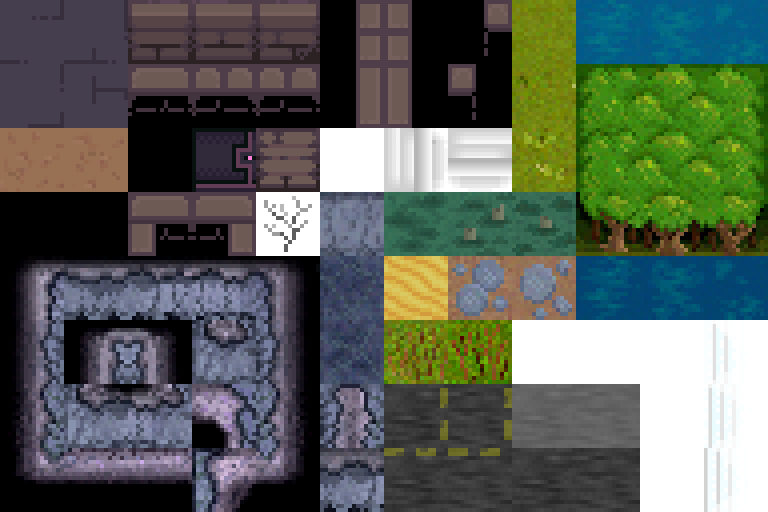
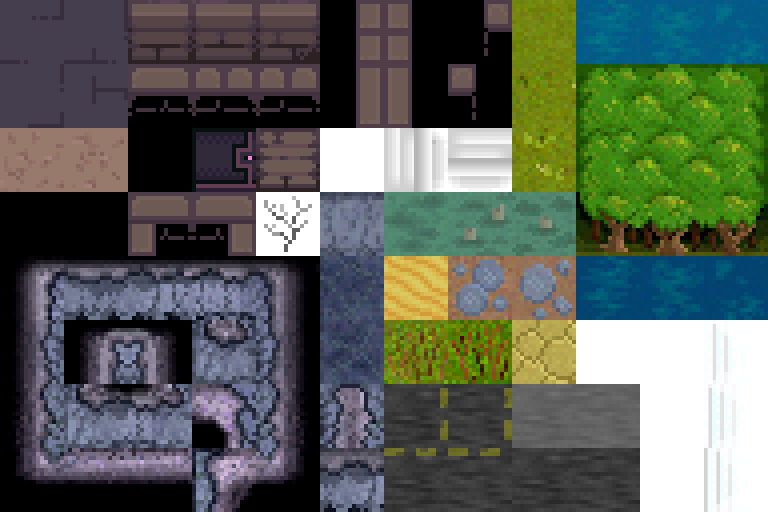
better road connections

Changed region(s): [[0.5, 0.375, 0.75, 0.5], [0.6562, 0.625, 0.75, 0.75], [0.0938, 0.25, 0.125, 0.2812]]

diff --git a/src/main/kotlin/world/gen/Metamap.kt b/src/main/kotlin/world/gen/Metamap.kt
@@ -25,8 +25,8 @@ object Metamap {
 
     var isWorking = false
 
-    val minLand = 0.4f
-    val maxLand = 0.7f
+    val minLand = 0.55f
+    val maxLand = 0.8f
     val coastRoughness = 0.15f
     val bigRiverDensity = 0.4f
     val smallRiverDensity = 0.1f
@@ -46,15 +46,16 @@ object Metamap {
     val bigCityFraction = 0.2f
     val ruinFalloff = 14f
     val ruinsMax = 5f
-    val habitatArcticY = 70
-    val habitatTropicY = 150
     val trailDensity = 0.1f
+    val minStepsBetweenSideRoads = 4
+    val sideRoadChance = 0.2f
 
     val outOfBoundsMeta = ChunkMeta(biome = Ocean)
 
     private var scratches = Array(chunkRadius * 2) { Array(chunkRadius * 2) { ChunkScratch() } }
     private var riverCells = ArrayList<XY>()
     private var cityCells = ArrayList<XY>()
+    private var roadCells = ArrayList<XY>()
     val metas = ArrayList<ArrayList<ChunkMeta>>()
 
     fun metaAt(x: Int, y: Int) = if (boundsCheck(x,y)) metas[x][y] else outOfBoundsMeta
@@ -103,6 +104,7 @@ object Metamap {
         scratches = Array(chunkRadius * 2) { Array(chunkRadius * 2) { ChunkScratch() } }
         riverCells.clear()
         cityCells.clear()
+        roadCells.clear()
 
         fun metaAt(x: Int, y: Int): ChunkScratch? = if (boundsCheck(x,y)) scratches[x][y] else null
 
@@ -440,7 +442,7 @@ object Metamap {
             }
             repeat (citiesInland) { placeCity(inlandSites) }
 
-            // Build ruins on city sites, and run roads away
+            // Build ruins on city sites
             val numBigCities = citiesTotal * bigCityFraction
             var n = 0
             for (city in cityCells) {
@@ -453,9 +455,6 @@ object Metamap {
                             scratches[dx][dy].height = 1
                         }
                     }
-                }
-                CARDINALS.forEach { dir ->
-                    runRoad(city, dir)
                 }
             }
             growBiome(Ruins, 1, 0.4f, false, listOf(Ocean))
@@ -640,6 +639,13 @@ object Metamap {
             forEachMeta { x,y,cell ->
                 if (Dice.chance(trailDensity)) {
                     runTrail(XY(x,y), Dice.float(0.05f, 0.2f))
+                }
+            }
+
+            // Run roads
+            cityCells.forEach { city ->
+                cityCells.forEach { ocity ->
+                    if (ocity != city) connectCityToRoads(city, ocity)
                 }
             }
 
@@ -837,39 +843,80 @@ object Metamap {
         }
     }
 
-    private fun runRoad(from: XY, toDir: XY) {
+    private fun connectCityToRoads(city: XY, targetCity: XY) {
+        val cursor = XY(city.x, city.y)
+        val targets = ArrayList<XY>().apply {
+            addAll(cityCells)
+            addAll(roadCells)
+            remove(city)
+        }
+        val newRoads = ArrayList<XY>()
         var done = false
-        var cursor = from
-        var length = 0
-        var dir = toDir
+        var stepsSinceSideRoad = 0
         while (!done) {
-            val next = XY(cursor.x + dir.x, cursor.y + dir.y)
-            if (!boundsCheck(next.x, next.y)) done = true
-            else if (!isLandAt(next)) done = true
-            else if (scratches[next.x][next.y].hasCity) done = true
-            else if (scratches[cursor.x][cursor.y].roadExits.size > 2 && Dice.chance(0.7f)) done = true
-            else if (length > 15 && Dice.chance(length * 0.006f)) done = true
-            else {
-                connectRoadExits(cursor, next)
-                cursor = next
-                length++
-            }
-            if (Dice.chance(0.07f)) {
-                dir = XY(toDir.y, toDir.x)
-                if (Dice.flip()) {
-                    dir.x = -dir.x
-                    dir.y = -dir.y
+            // Find target closest to cursor which is closer to targetCity than cursor
+            var nearestTarget = targetCity
+            val cursorToTargetCity = manhattanDistance(cursor, targetCity)
+            var nearestTargetDistance = cursorToTargetCity
+            targets.forEach { choice ->
+                val cursorToChoice = manhattanDistance(cursor, choice)
+                val choiceToTargetCity = manhattanDistance(choice, targetCity)
+                if (cursorToChoice < 0.5f) done = true
+                else if (choiceToTargetCity < cursorToTargetCity) {
+                    if (cursorToChoice < nearestTargetDistance) {
+                        nearestTargetDistance = cursorToChoice
+                        nearestTarget = choice
+                    }
                 }
             }
-            if (Dice.chance(0.015f)) {
-                runRoad(cursor, XY(toDir.y, toDir.x))
+            if (!done) {
+                // Pick a direction that moves closer to it
+                var moveDir = XY(0, 0)
+                CARDINALS.shuffled().from(cursor.x, cursor.y) { dx, dy, dir ->
+                    if (boundsCheck(dx, dy) && manhattanDistance(nearestTarget.x, nearestTarget.y, dx, dy) < nearestTargetDistance) {
+                        moveDir = dir
+                    }
+                }
+                if (moveDir == XY(0,0)) done = true
+                else {
+                    connectRoadExits(cursor, XY(cursor.x + moveDir.x, cursor.y + moveDir.y))
+                    if (cursor != city) newRoads.add(XY(cursor.x, cursor.y))
+                    stepsSinceSideRoad++
+                    if (stepsSinceSideRoad >= minStepsBetweenSideRoads && Dice.chance(sideRoadChance)) {
+                        var sideRoadDir = moveDir.rotated()
+                        if (Dice.flip()) sideRoadDir = sideRoadDir.flipped()
+                        runSideRoad(XY(cursor.x, cursor.y), sideRoadDir)
+                        stepsSinceSideRoad = 0
+                    }
+                    cursor.x += moveDir.x
+                    cursor.y += moveDir.y
+                }
             }
+        }
+        roadCells.addAll(newRoads)
+    }
+
+    private fun runSideRoad(start: XY, dir: XY) {
+        var done = false
+        val cursor = XY(start.x,start.y)
+        while (!done) {
+            if (Dice.chance(0.05f)) done = true
+            val next = XY(cursor.x + dir.x, cursor.y + dir.y)
+            if (scratches[next.x][next.y].roadExits.isNotEmpty()) done = true
+            if (scratches[next.x][next.y].height < 1) done = true
+            if (scratches[next.x][next.y].biome == Mountain) done = true
+            connectRoadExits(cursor, next)
+            roadCells.add(XY(cursor.x, cursor.y))
+            cursor.x = next.x
+            cursor.y = next.y
         }
     }
 
     private fun isLandAt(xy: XY) = boundsCheck(xy.x, xy.y) && scratches[xy.x][xy.y].height > 0
 
     private fun connectRoadExits(source: XY, dest: XY) {
+        if (scratches[dest.x][dest.y].biome == Ocean) return
+        if (scratches[dest.x][dest.y].height < 1) return
         val sourceEdge = XY(dest.x - source.x, dest.y - source.y)
         val destEdge = XY(source.x - dest.x, source.y - dest.y)
         if (!scratches[source.x][source.y].roadExits.hasOneWhere { it.edge == sourceEdge }) {

diff --git a/src/main/kotlin/world/gen/biomes/Biome.kt b/src/main/kotlin/world/gen/biomes/Biome.kt
@@ -176,7 +176,7 @@ object Mountain : Biome(
     TERRAIN_DIRT
 ) {
     override fun riverBankAltTerrain(x: Int, y: Int) = TERRAIN_ROCKS
-    override fun trailTerrain(x: Int, y: Int) = if (NoisePatches.get("plantsBasic",x,y) > 0.4f) TERRAIN_SAND else TERRAIN_DIRT
+    override fun trailTerrain(x: Int, y: Int) = TERRAIN_HARDPAN
 
     override fun terrainAt(x: Int, y: Int): Terrain.Type {
         val v = NoisePatches.get("mountainShapes", x, y).toFloat()
@@ -212,7 +212,7 @@ object Scrub : Biome(
     Glyph.MAP_SCRUB,
     TERRAIN_GRASS
 ) {
-    override fun riverBankAltTerrain(x: Int, y: Int) = TERRAIN_DIRT
+    override fun riverBankAltTerrain(x: Int, y: Int) = if (Dice.chance(0.1f)) TERRAIN_ROCKS else TERRAIN_GRASS
     override fun trailTerrain(x: Int, y: Int) = TERRAIN_DIRT
 
     val dirtMin = 0.1f
@@ -221,7 +221,7 @@ object Scrub : Biome(
     override fun addPlant(fertility: Float, variance: Float,
                           addThing: (Thing) -> Unit, addTerrain: (Terrain.Type) -> Unit) {
         if (fertility < dirtMin + (variance * 0.002f)) {
-            addTerrain(Terrain.Type.TERRAIN_SAND)
+            addTerrain(Terrain.Type.TERRAIN_HARDPAN)
         } else if (fertility < grassMin + (variance * 0.004f)) {
             addTerrain(Terrain.Type.TERRAIN_DIRT)
         } else {
@@ -242,7 +242,23 @@ object Desert : Biome(
     TERRAIN_SAND
 ) {
     override fun riverBankTerrain(x: Int, y: Int) = if (NoisePatches.get("plantsBasic", x, y) > 0.1)
-        TERRAIN_GRASS else TERRAIN_SAND
+        TERRAIN_GRASS else TERRAIN_HARDPAN
+
+    override fun terrainAt(x: Int, y: Int): Terrain.Type {
+        val v = NoisePatches.get("desertRocks",x,y).toFloat()
+        if (v > 0.45f) return TERRAIN_CAVEWALL
+        else if (v > 0.35f && Dice.chance((v - 0.35f) * 10f)) return TERRAIN_ROCKS
+        return super.terrainAt(x,y)
+    }
+
+    val sandMin = 0.1f
+
+    override fun addPlant(fertility: Float, variance: Float,
+                          addThing: (Thing) -> Unit, addTerrain: (Terrain.Type) -> Unit) {
+        if (fertility < sandMin + (variance * 0.006f)) {
+            addTerrain(Terrain.Type.TERRAIN_HARDPAN)
+        }
+    }
 }
 
 @Serializable

diff --git a/src/main/kotlin/world/terrains/Floors.kt b/src/main/kotlin/world/terrains/Floors.kt
@@ -138,7 +138,7 @@ object Rocks : Floor(Type.TERRAIN_ROCKS, Glyph.ROCKS, false) {
 }
 
 object Grass : Floor(Type.TERRAIN_GRASS, Glyph.GRASS, true) {
-    override fun overlapsOn() = setOf(Type.TERRAIN_STONEFLOOR, Type.TERRAIN_DIRT, Type.TERRAIN_PAVEMENT, Type.TERRAIN_ROCKS)
+    override fun overlapsOn() = setOf(Type.TERRAIN_STONEFLOOR, Type.TERRAIN_DIRT, Type.TERRAIN_PAVEMENT, Type.TERRAIN_ROCKS, Type.TERRAIN_HARDPAN)
     override fun stepSound(actor: Actor) = Speaker.SFX.STEPGRASS
 }
 
@@ -155,15 +155,21 @@ object Swamp : Floor(Type.TERRAIN_SWAMP, Glyph.SWAMP, true) {
 }
 
 object Beach : Floor(Type.TERRAIN_BEACH, Glyph.BEACH, true) {
-    override fun overlapsOn() = setOf(Type.TERRAIN_DIRT, Type.TERRAIN_GRASS, Type.TERRAIN_PAVEMENT, Type.TERRAIN_ROCKS)
+    override fun overlapsOn() = setOf(Type.TERRAIN_DIRT, Type.TERRAIN_GRASS, Type.TERRAIN_PAVEMENT, Type.TERRAIN_ROCKS, Type.TERRAIN_HARDPAN)
     override fun moveSpeed(actor: Actor) = 1.3f
     override fun stepSound(actor: Actor) = Speaker.SFX.STEPGRASS
 }
 
 object Sand : Floor(Type.TERRAIN_SAND, Glyph.BEACH, true) {
-    override fun overlapsOn() = setOf(Type.TERRAIN_DIRT, Type.TERRAIN_GRASS, Type.TERRAIN_PAVEMENT, Type.TERRAIN_ROCKS)
+    override fun overlapsOn() = setOf(Type.TERRAIN_DIRT, Type.TERRAIN_GRASS, Type.TERRAIN_PAVEMENT, Type.TERRAIN_ROCKS, Type.TERRAIN_HARDPAN)
     override fun moveSpeed(actor: Actor) = 1.3f
     override fun stepSound(actor: Actor) = Speaker.SFX.STEPGRASS
+}
+
+object Hardpan : Floor(Type.TERRAIN_HARDPAN, Glyph.HARDPAN, false) {
+    override fun overlapsOn() = setOf(Type.TERRAIN_DIRT, Type.TERRAIN_ROCKS)
+    override fun moveSpeed(actor: Actor) = 0.8f
+    override fun stepSound(actor: Actor) = Speaker.SFX.STEPDIRT
 }
 
 object Pavement : Floor(Type.TERRAIN_PAVEMENT, Glyph.PAVEMENT, false) {

diff --git a/src/main/kotlin/world/terrains/Terrain.kt b/src/main/kotlin/world/terrains/Terrain.kt
@@ -34,6 +34,7 @@ sealed class Terrain(
             Type.TERRAIN_ROCKS -> Rocks
             Type.TERRAIN_GRASS -> Grass
             Type.TERRAIN_UNDERGROWTH -> Undergrowth
+            Type.TERRAIN_HARDPAN -> Hardpan
             Type.TERRAIN_SWAMP -> Swamp
             Type.TERRAIN_BEACH -> Beach
             Type.TERRAIN_SAND -> Sand
@@ -72,6 +73,7 @@ sealed class Terrain(
         TERRAIN_ROCKS,
         TERRAIN_GRASS,
         TERRAIN_UNDERGROWTH,
+        TERRAIN_HARDPAN,
         TERRAIN_SWAMP,
         TERRAIN_BEACH,
         TERRAIN_SAND,

diff --git a/src/main/kotlin/util/extensions.kt b/src/main/kotlin/util/extensions.kt
@@ -107,6 +107,10 @@ fun distanceBetween(x0: Int, y0: Int, x1: Int, y1: Int): Float =
     sqrt((x1-x0).toFloat().pow(2) + (y1-y0).toFloat().pow(2))
 fun distanceBetween(xy0: XY, xy1: XY) = distanceBetween(xy0.x, xy0.y, xy1.x, xy1.y)
 
+fun manhattanDistance(x0: Int, y0: Int, x1: Int, y1: Int): Float =
+    (abs(x1-x0) + abs(y1-y0)).toFloat()
+fun manhattanDistance(xy0: XY, xy1: XY) = manhattanDistance(xy0.x, xy0.y, xy1.x, xy1.y)
+
 fun UUID() = UUID.randomUUID().toString()
 fun shortID() = Random.nextInt(100000000).toString()
 

diff --git a/src/main/kotlin/render/tilesets/TerrainTileSet.kt b/src/main/kotlin/render/tilesets/TerrainTileSet.kt
@@ -56,6 +56,8 @@ fun TerrainTileSet() =
             add(0.5f, 7, 5)
         })
 
+        setTile(Glyph.HARDPAN, SimpleTile(this, 8, 5))
+
         setTile(Glyph.BEACH, SimpleTile(this, 6, 4))
 
         setTile(Glyph.BRICK_WALL, WallTile(this, Glyph.BRICK_WALL).apply {

diff --git a/src/main/kotlin/util/XY.kt b/src/main/kotlin/util/XY.kt
@@ -38,6 +38,7 @@ data class XY(var x: Int, var y: Int) {
     fun toXYf() = XYf(x.toFloat(), y.toFloat())
 
     fun rotated() = XY(y, x)
+    fun flipped() = XY(-x, -y)
 
     fun isFarEnoughFromAll(dist: Int, all: List<XY>): Boolean {
         all.forEach { other ->

diff --git a/src/main/kotlin/render/tilesets/Glyph.kt b/src/main/kotlin/render/tilesets/Glyph.kt
@@ -15,6 +15,7 @@ enum class Glyph {
     ROCKS,
     GRASS,
     UNDERGROWTH,
+    HARDPAN,
     SWAMP,
     BEACH,
     SHALLOW_WATER,
